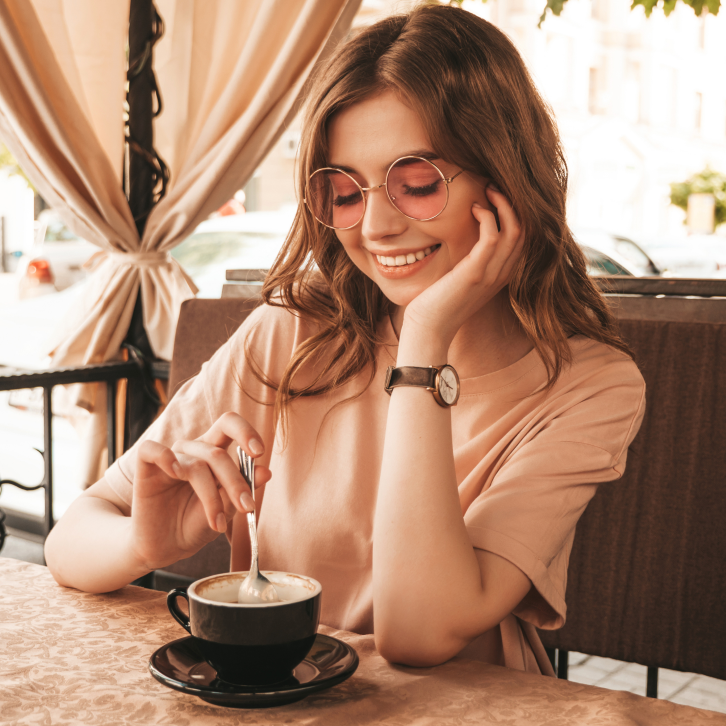
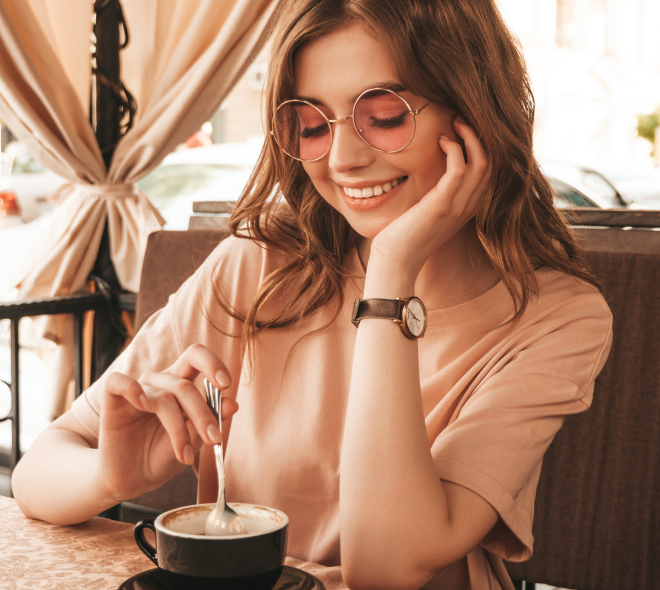
feat: according to Perfect Pixel

diff --git a/app/src/components/Mobile/Mobile.jsx b/app/src/components/Mobile/Mobile.jsx
@@ -9,12 +9,12 @@ const Mobile = () => {
       <div className="info">
         <h2 className="title"><span className="italic">Download</span> our apps to start ordering</h2>
         <p className="subtitle">Download the Resource app today and experience the comfort of ordering your favorite coffee from wherever you are</p>
-        <button className="store">
+        <a href="https://www.apple.com/app-store" target="_blank" className="store" rel="noreferrer">
           <img className="storeImg" src={store} alt="store" />
-        </button>
-        <button className="store google">
+        </a>
+        <a href="https://play.google.com/store/apps" target="_blank" className="store google" rel="noreferrer">
           <img className="storeImg" src={google} alt="store" />
-        </button>
+        </a>
       </div>
       <img src={MobileScreens} className="screens" alt="screens" />
     </section>

diff --git a/app/src/components/Favorite/favorite.scss b/app/src/components/Favorite/favorite.scss
@@ -25,7 +25,7 @@
 
   .slick-arrow {
     position: absolute;
-    top: 50%;
+    top: 46.5%;
     transform: translateY(-50%);
     z-index: 1000;
 
@@ -59,8 +59,12 @@
     }
   }
 
+  .slick-prev {
+    left: 4px;
+  }
+
   .slick-next {
-    right: 0;
+    right: 4px;
     transform: translateY(-50%) rotate(180deg);
   }
 
@@ -96,7 +100,7 @@
   }
 
   .item {
-    margin-bottom: 20px;
+    margin-bottom: 18px;
   }
 
   .name,

diff --git a/app/src/components/About/about.scss b/app/src/components/About/about.scss
@@ -21,18 +21,18 @@
   }
 
   .small {
-    max-height: 430px;
+    max-height: 423px;
     width: 100%;
-    border-radius: 20px;
-    object-fit: cover;
   }
 
   .wrap {
     overflow: hidden;
     border-radius: 20px;
+    max-height: 590px;
   }
 
   .aboutPic {
+    object-fit: cover;
     transition: 0.5s ease;
     transform: scale(1.1);
 

diff --git a/app/src/components/Footer/footer.scss b/app/src/components/Footer/footer.scss
@@ -21,7 +21,7 @@
 
   .socials {
     display: flex;
-    gap: 12px;
+    gap: 10px;
   }
 
   .social {
@@ -45,6 +45,10 @@
     top: 50%;
     left: 50%;
     transform: translate(-50%, -50%);
+  }
+
+  .contact {
+    padding-top: 13px;
   }
 
   .subtitle {

diff --git a/app/src/components/Mobile/mobile.scss b/app/src/components/Mobile/mobile.scss
@@ -13,7 +13,7 @@
   }
 
   .title {
-    margin: 0 0 40px;
+    margin: 0 0 42px;
     @include inter (60px, 600, 75px);
   }
 
@@ -24,6 +24,7 @@
 
   .store {
     padding: 0;
+    display: inline-block;
 
     border-radius: 100px;
     border: none;

diff --git a/app/src/components/Header/Header.scss b/app/src/components/Header/Header.scss
@@ -4,7 +4,7 @@
   display: flex;
   align-items: center;
   justify-content: space-between;
-  margin-bottom: 20px;
+  margin-bottom: 22px;
 
   @include inter (16px, 600, 24px);
   color: $color-dark;
